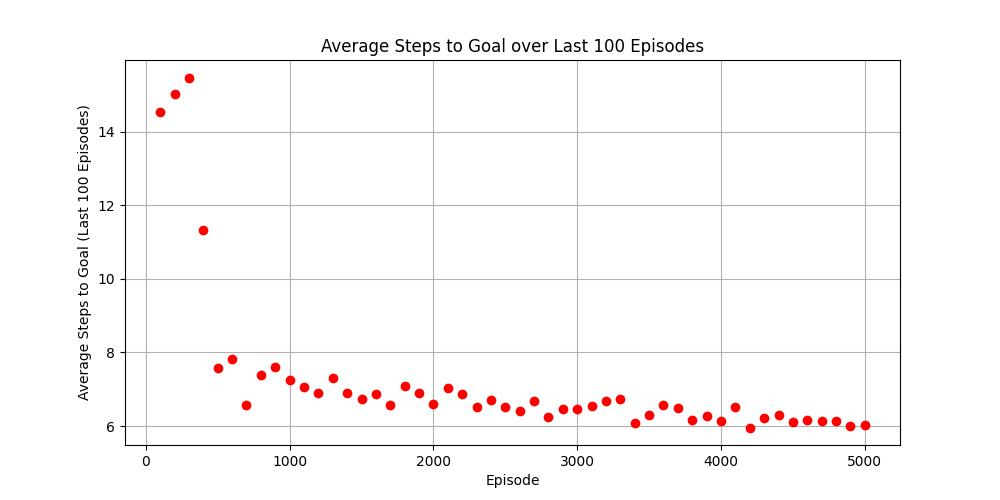
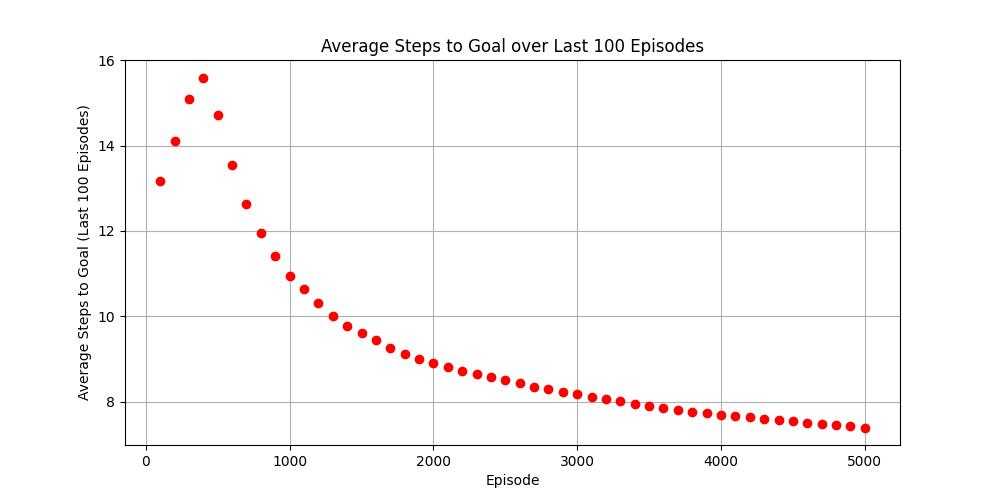
FrozenLake final version % new average steps plot

diff --git a/Assignment1/frozenLakeAgent.py b/Assignment1/frozenLakeAgent.py
@@ -1,83 +1,141 @@
 import gymnasium as gym
 import numpy as np
-import pygame
 import matplotlib.pyplot as plt
 
+EPISODES_BENCHMARKS = {500, 2000, 5000}
+LEARNING_RATE = 0.8
+DISCOUNT_FACTOR = 0.8
+EPSILON = 0.6
+EPSILON_MIN = 0.1
+NUM_EPISODES = 5000
 
 
+def train_agent(num_episodes=5000):
+    """
+    Train the agent using Q-learning algorithm.
+    """
+    (
+        average_steps_to_goal,
+        env,
+        episodes_indexes_lst,
+        epsilon,
+        epsilon_decay_rate,
+        q_value_lookup_table,
+        rewards_per_episode,
+        state_s,
+        steps_to_goal_per_episode
+    ) = init_training(num_episodes)
 
-
-episodes_bench_marks = {500,2000,5000,5000}
-
-
-
-def train_agent(num_episodes =5000,max_step_num=100):
-    env = gym.make('FrozenLake-v1', desc=None, map_name="4x4", is_slippery=False)
-                   #render_mode='human')  # Init a MDP environments
-    state_s, info = env.reset()  # Resets the environment to an initial state,
-    lookup_table = np.zeros((env.observation_space.n, env.action_space.n))
-
-    learning_rate = 0.8
-    gamma = 0.8
-    epsilon = 0.6
-    epsilon_decay_rate = epsilon / num_episodes # epsilon decay rate. 1/0.0001 = 10,000
-
-
-    rewards_per_episode = []  # Track rewards per episode
-    steps_to_goal = []  # Track number of steps to goal per episode
-    final_to_goal = []
-    final_idx = []
-
-
-
-    for episode_idx in range(1,num_episodes+1):
-        total_reward = 0
-        num_steps = 0
+    for episode_idx in range(1, num_episodes + 1):
+        reward_per_episode = 0
+        num_steps_to_goal = 0
 
         terminated = False
         truncated = False
 
-        #for _ in range(max_step_num):
-        while (not terminated and not truncated):
-            num_steps += 1
+        (num_steps_to_goal,
+         reward_per_episode) = do_episode(env, epsilon, num_steps_to_goal, q_value_lookup_table,
+                                          reward_per_episode, state_s, terminated, truncated)
 
-            action = sample_action(env, epsilon, lookup_table, state_s)
-
-            state_s_prime, reward, terminated, truncated, info = env.step(action)
-            total_reward += reward
-
-            if terminated or truncated:
-                target = reward
-                state_s_prime, info = env.reset()
-            else:
-                target = reward + gamma* np.max(lookup_table[state_s_prime, :])
-            lookup_table[state_s][action] = (1-learning_rate)*lookup_table[state_s][action] + learning_rate*target
-            state_s = state_s_prime
-        if truncated:
-            num_steps = 100
-
-        steps_to_goal.append(num_steps)
-
+        steps_to_goal_per_episode.append(num_steps_to_goal)
 
         if episode_idx % 100 == 0:
-            if len(steps_to_goal) >= 100:
-                avg_steps = np.mean(steps_to_goal[-100:])
-                final_to_goal.append(avg_steps)
-                final_idx.append(episode_idx)
+            prepare_average_lst(average_steps_to_goal, episode_idx, episodes_indexes_lst,
+                                steps_to_goal_per_episode)
 
-
-        if episode_idx in episodes_bench_marks:
-            plot_heat_map(episode_idx, lookup_table)
-        epsilon = max(epsilon - epsilon_decay_rate,0)
-        rewards_per_episode.append(total_reward)
-    plot_rewards_per_episode(rewards_per_episode)
-    plot_avg_steps_per_100_episodes(final_idx,final_to_goal)
-
+        epsilon = max(epsilon - epsilon_decay_rate, EPSILON_MIN)
+        if episode_idx in EPISODES_BENCHMARKS:
+            plot_heat_map(episode_idx, q_value_lookup_table)
+        rewards_per_episode.append(reward_per_episode)
+    do_plots(average_steps_to_goal, episodes_indexes_lst, rewards_per_episode)
 
     env.close()
 
 
-def sample_action(env, epsilon, lookup_table,  state_s):
+def init_training(num_episodes):
+    """
+    This function initializes the parameters and environment for training the agent using the Q-learning algorithm.
+    It sets up the FrozenLake environment with a 4x4 grid and no slipperiness.
+    It initializes the Q-value lookup table, epsilon (exploration rate), epsilon decay rate,
+    lists for tracking rewards and steps to goal per episode, and lists for tracking average steps to goal and episode indices.
+    """
+    env = gym.make('FrozenLake-v1', desc=None, map_name="4x4", is_slippery=False)  # Init a MDP environments
+    state_s = env.reset()[0]  # Resets the environment to an initial state,
+    q_value_lookup_table = np.zeros((env.observation_space.n, env.action_space.n))
+    epsilon = EPSILON
+    epsilon_decay_rate = EPSILON / num_episodes
+    rewards_per_episode = []  # Track rewards per episode
+    steps_to_goal_per_episode = []  # Track number of steps to goal per episode
+    average_steps_to_goal = []
+    episodes_indxs_lst = []
+    return average_steps_to_goal, env, episodes_indxs_lst, epsilon, epsilon_decay_rate, q_value_lookup_table, \
+           rewards_per_episode, state_s, steps_to_goal_per_episode
+
+
+def do_episode(env, epsilon, num_steps_to_goal, q_value_lookup_table, reward_per_episode, state_s, terminated,
+               truncated):
+    """
+    This function performs a single episode of the environment by taking actions based on the epsilon-greedy policy.
+    It updates the Q-values using the Q-learning update rule.
+    If the episode is terminated or truncated, it resets the environment.
+    @param env: (gym.Env): The environment.
+    @param epsilon: (float) The exploration rate.
+    @param num_steps_to_goal: (int) The number of steps taken to reach the goal.
+    @param q_value_lookup_table: (numpy.ndarray) A 2D array representing the Q-values of each state-action pair.
+    @param reward_per_episode: (float) The total reward obtained in the episode.
+    @param state_s: (int) The current state.
+    @param terminated: (bool) Flag indicating whether the episode terminated.
+    @param truncated: (bool) Flag indicating whether the episode was truncated.
+    @return: tuple: A tuple containing the number of steps taken to reach the goal and the total reward obtained.
+    """
+    while not terminated and not truncated:
+        num_steps_to_goal += 1
+
+        action = sample_action(env, epsilon, q_value_lookup_table, state_s)
+
+        state_s_prime, reward, terminated, truncated, info = env.step(action)
+        reward_per_episode += reward
+
+        if terminated or truncated:
+            target = reward
+            state_s_prime = env.reset()[0]
+        else:
+            target = reward + DISCOUNT_FACTOR * np.max(q_value_lookup_table[state_s_prime, :])
+        q_value_lookup_table[state_s][action] = (1 - LEARNING_RATE) * q_value_lookup_table[state_s][
+            action] + LEARNING_RATE * target
+        state_s = state_s_prime
+    if truncated:  # The agent didn't get to the goal
+        num_steps_to_goal = 100
+    return num_steps_to_goal, reward_per_episode
+
+
+def do_plots(average_steps_to_goal, episodes_indxs_lst, rewards_per_episode):
+    plot_rewards_per_episode(rewards_per_episode)
+    plot_avg_steps_per_100_episodes(episodes_indxs_lst, average_steps_to_goal)
+
+
+def prepare_average_lst(average_steps_to_goal, episode_idx, episodes_indxs_lst, steps_to_goal_per_episode):
+    """
+    This function prepares lists for storing the average steps to goal per episode.
+    It calculates the average steps to goal for the current episode and appends it to the list.
+    It also appends the current episode index to the list of episode indices.
+    Finally, it resets the list for storing steps to goal per episode for the next episode.
+    """
+    avg_steps = np.mean(steps_to_goal_per_episode)
+    average_steps_to_goal.append(avg_steps)
+    episodes_indxs_lst.append(episode_idx)
+    steps_to_goal_per_episode = []
+    return steps_to_goal_per_episode
+
+
+def sample_action(env, epsilon, lookup_table, state_s):
+    """
+     This function selects an action using an epsilon-greedy policy:
+      - With probability epsilon, it selects a random action (exploration).
+      - With probability (1 - epsilon), it selects the action with the highest Q-value for the given state (exploitation).
+    @return: action (int): The selected action.
+
+    """
     if np.random.rand() < epsilon:
         action = env.action_space.sample()  # agent policy that uses the observation and info
     else:
@@ -85,7 +143,12 @@ def sample_action(env, epsilon, lookup_table,  state_s):
     return action
 
 
-def plot_heat_map(_, lookup_table):
+def plot_heat_map(episode_idx, lookup_table):
+    """
+    This function creates a heat map representing the Q-values of each state-action pair.
+    The x-axis represents the action indices (left, down, right, up),
+    and the y-axis represents the state indices.
+    """
     plt.imshow(lookup_table, cmap='viridis', interpolation='nearest')
     plt.colorbar()  # Add a color bar to show the mapping of values to colors
 
@@ -97,36 +160,43 @@ def plot_heat_map(_, lookup_table):
         plt.text(x, y, "{:.2f}".format(value), ha='center', va='center', color='white', fontsize=6)
         # Set custom x-axis tick labels
     plt.xticks(np.arange(lookup_table.shape[1]), ['left', 'down', 'right', 'up'], fontsize=6)
-    plt.text(lookup_table.shape[1] / 2, -2, f"number of episodes = {_}",
+    plt.text(lookup_table.shape[1] / 2, -2, f"number of episodes = {episode_idx}",
              ha="center", va="center", fontsize=8)
-    plt.savefig(f'heat_map_{_}.jpg', format='jpeg')  # Adjust quality as needed
+    plt.savefig(f'heat_map_{episode_idx}.jpg', format='jpeg')  # Adjust quality as needed
     plt.show()
 
 
 def plot_rewards_per_episode(rewards_per_episode):
+    """
+    This function plots the total reward achieved in each episode.
+    The x-axis represents the episode number, and the y-axis represents the total reward.
+    """
     plt.figure(figsize=(10, 5))
     plt.plot(rewards_per_episode, color='blue')
     plt.xlabel('Episode')
     plt.ylabel('Total Reward')
     plt.title('Rewards per Episode')
     plt.grid()
-    plt.savefig('rewards_per_episode.jpg', format='jpeg')  # Adjust quality as needed
-
+    plt.savefig('rewards_per_episode.jpg', format='jpeg')
     plt.show()
 
 
 def plot_avg_steps_per_100_episodes(episode_idx, avg_steps):
+    """
+    This function plots the average steps to goal over the last 100 episodes
+    @param episode_idx: List of episode indices
+    @param avg_steps: List of average steps to goal for each episode.
+    """
+
     plt.figure(figsize=(10, 5))
     plt.plot(episode_idx, avg_steps, 'ro')
     plt.xlabel('Episode')
     plt.ylabel('Average Steps to Goal (Last 100 Episodes)')
     plt.title('Average Steps to Goal over Last 100 Episodes')
     plt.grid()
-    plt.savefig('avg_steps_per_100_episodes.jpg', format='jpeg')  # Adjust quality as needed
-
+    plt.savefig('avg_steps_per_100_episodes.jpg', format='jpeg')
     plt.show()
 
 
-
 if __name__ == '__main__':
-    train_agent(5000)
+    train_agent(NUM_EPISODES)
